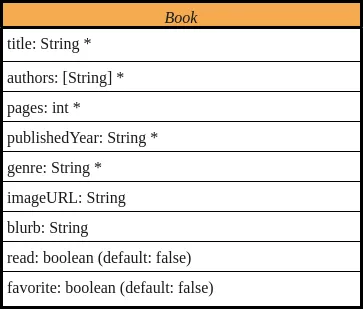
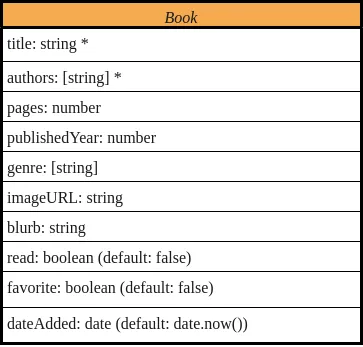
defined a Book mongoose schema, exported the schema for use in books router

Changed region(s): [[0.0, 0.0, 1.0, 0.955], [0.0, 0.9839, 1.0, 1.0]]

diff --git a/models/Book.js b/models/Book.js
@@ -1,4 +1,5 @@
 const mongoose = require('mongoose');
+const { boolean } = require('webidl-conversions');
 
 const Book = mongoose.Schema({
   title: {
@@ -7,6 +8,35 @@ const Book = mongoose.Schema({
   },
   authors: {
     type: [String],
-    required: [true, 'Please enter a title.'],
+    required: [true, 'Please enter one or more authors'],
+  },
+  pages: {
+    type: Number,
+  },
+  publishedYear: {
+    type: Number,
+  },
+  genre: {
+    type: [String],
+  },
+  coverURL: {
+    type: String,
+  },
+  blurb: {
+    type: String,
+  },
+  read: {
+    type: boolean,
+    default: false,
+  },
+  favorite: {
+    type: boolean,
+    default: false,
+  },
+  dateAdded: {
+    type: Date,
+    default: Date.now(),
   },
 });
+
+module.exports = Book;
